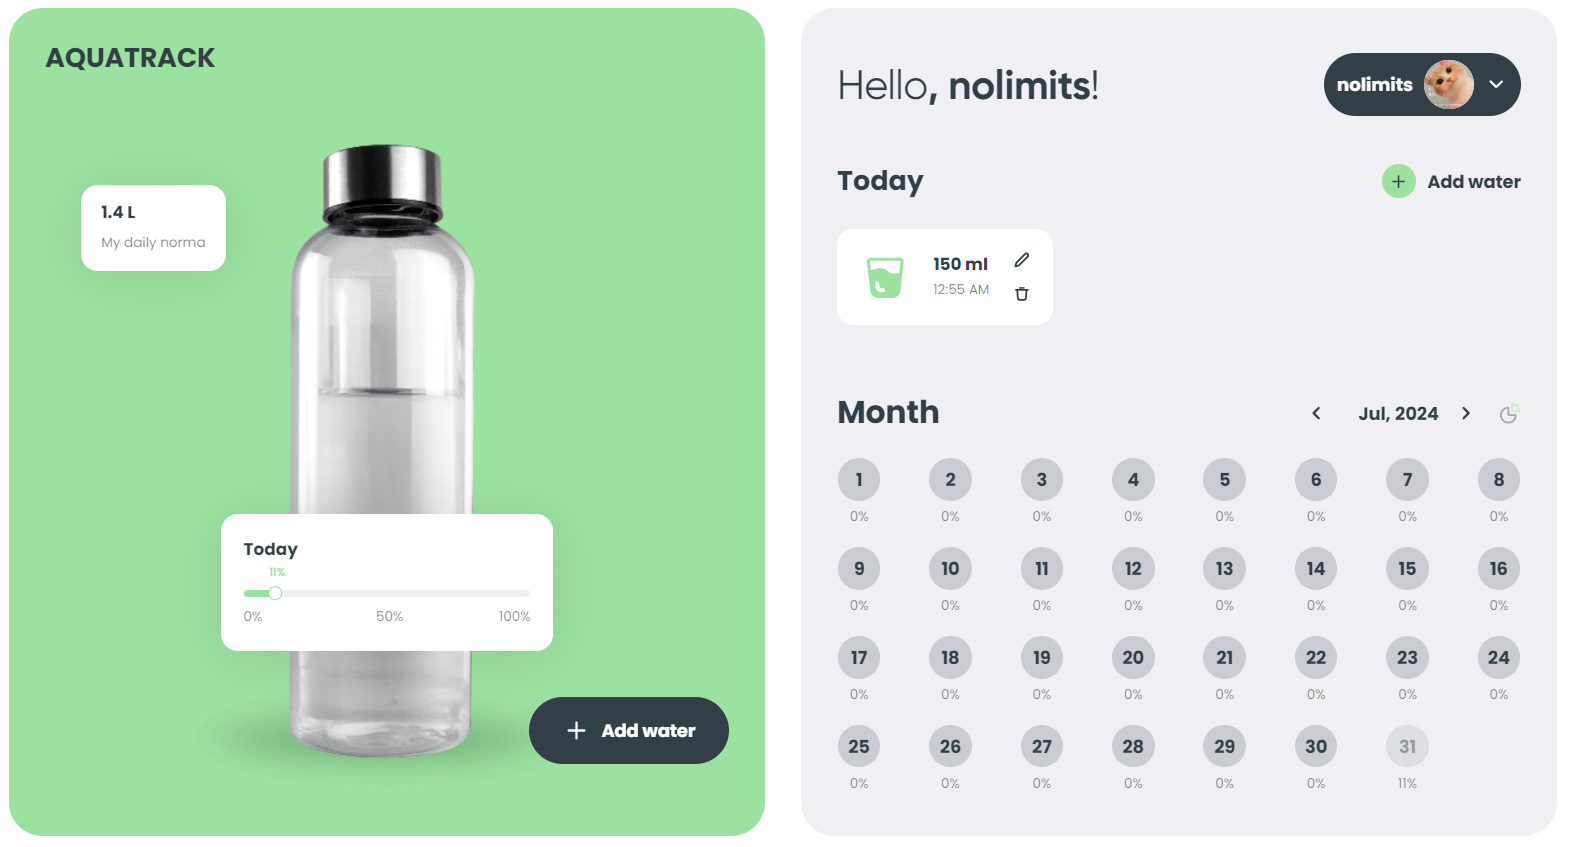
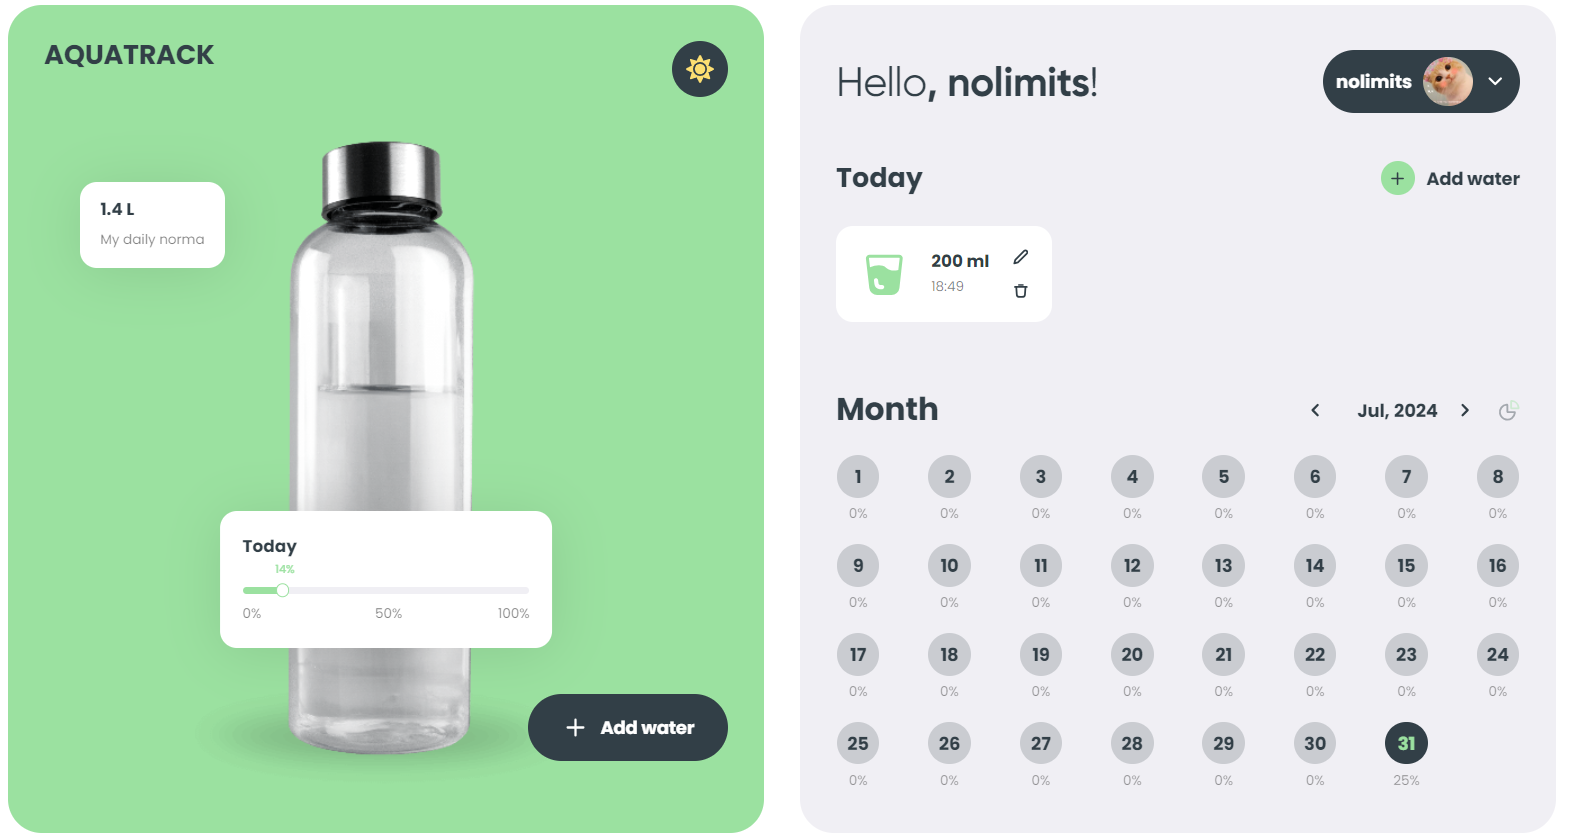
upd

diff --git a/README.md b/README.md
@@ -2,7 +2,11 @@
 
 Water Tracker is an application designed to monitor and analyze water
 consumption. It allows users to log their daily water intake and receive
-personalized recommendations for maintaining optimal hydration levels.
+personalized recommendations for maintaining optimal hydration levels. The
+application also includes a dark mode, providing a comfortable user experience
+and reducing eye strain in low-light conditions.
+
+![](/src/assets/darktheme.jpg)
 
 ## Features
 
